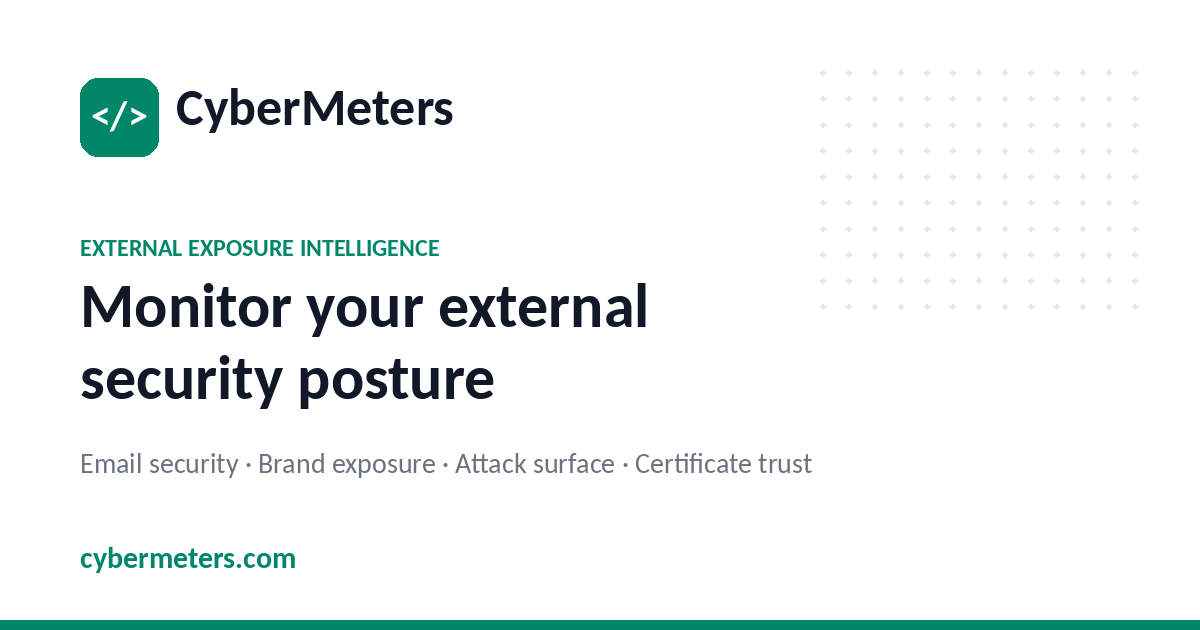
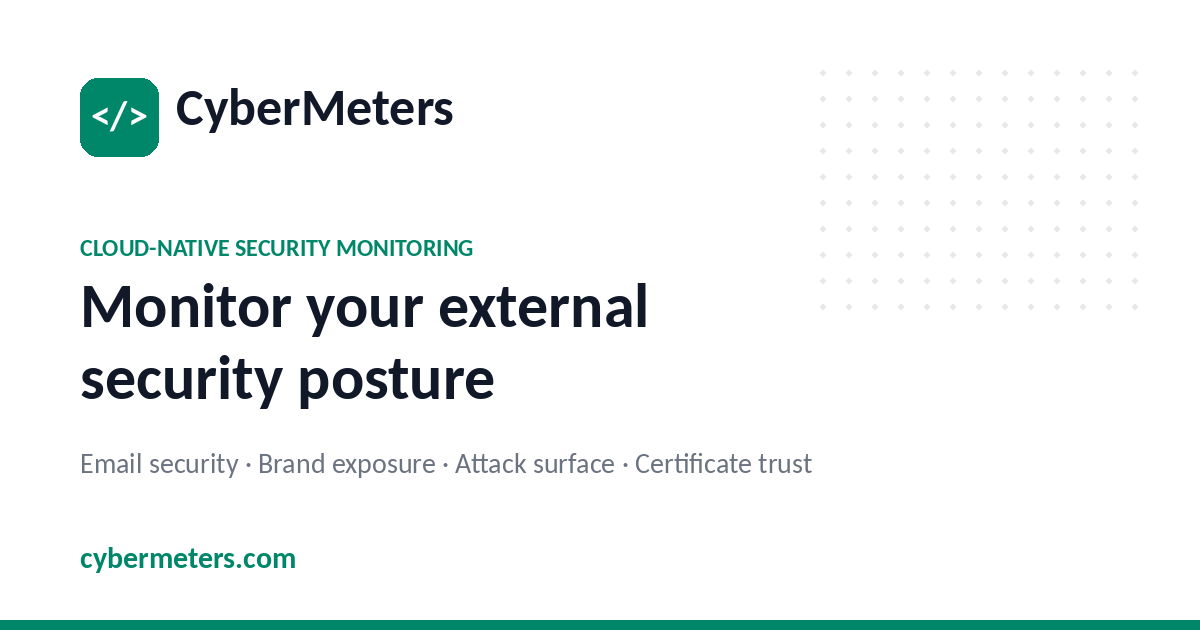
copy(marketing): lead with 'Monitor your external security posture'

Changed region(s): [[0.0617, 0.3619, 0.4008, 0.4222]]

diff --git a/frontend/index.html b/frontend/index.html
@@ -6,25 +6,25 @@
     <link rel="icon" href="/favicon.ico" sizes="any" />
     <link rel="apple-touch-icon" href="/favicon.svg" />
     <meta name="viewport" content="width=device-width, initial-scale=1.0" />
-    <title>CyberMeters — External Exposure Intelligence</title>
-    <meta name="description" content="CyberMeters is a cloud-native External Exposure Intelligence platform. Monitor email security (Managed DMARC & BEC exposure), brand exposure, attack surface risk, and certificate trust from one workspace." />
+    <title>CyberMeters — Monitor your external security posture</title>
+    <meta name="description" content="CyberMeters is a cloud-native security platform. Monitor your external security posture across email security (Managed DMARC & BEC exposure), brand exposure, attack surface risk, and certificate trust from one workspace." />
     <meta name="theme-color" content="#00876A" />
 
     <!-- Open Graph (LinkedIn, Slack, Facebook) -->
     <meta property="og:type" content="website" />
     <meta property="og:site_name" content="CyberMeters" />
-    <meta property="og:title" content="CyberMeters — External Exposure Intelligence" />
-    <meta property="og:description" content="A cloud-native platform to monitor email security, brand exposure, attack surface risk, and certificate trust from one workspace." />
+    <meta property="og:title" content="CyberMeters — Monitor your external security posture" />
+    <meta property="og:description" content="A cloud-native platform to monitor your external security posture across email security, brand exposure, attack surface risk, and certificate trust — from one workspace." />
     <meta property="og:url" content="https://cybermeters.com" />
     <meta property="og:image" content="https://cybermeters.com/og-image.png" />
     <meta property="og:image:width" content="1200" />
     <meta property="og:image:height" content="630" />
-    <meta property="og:image:alt" content="CyberMeters — External Exposure Intelligence" />
+    <meta property="og:image:alt" content="CyberMeters — Monitor your external security posture" />
 
     <!-- Twitter / X -->
     <meta name="twitter:card" content="summary_large_image" />
-    <meta name="twitter:title" content="CyberMeters — External Exposure Intelligence" />
-    <meta name="twitter:description" content="A cloud-native platform to monitor email security, brand exposure, attack surface risk, and certificate trust from one workspace." />
+    <meta name="twitter:title" content="CyberMeters — Monitor your external security posture" />
+    <meta name="twitter:description" content="A cloud-native platform to monitor your external security posture across email security, brand exposure, attack surface risk, and certificate trust — from one workspace." />
     <meta name="twitter:image" content="https://cybermeters.com/og-image.png" />
     <link rel="preconnect" href="https://fonts.googleapis.com" />
     <link rel="preconnect" href="https://fonts.gstatic.com" crossorigin />

diff --git a/frontend/src/pages/PublicLandingPage.jsx b/frontend/src/pages/PublicLandingPage.jsx
@@ -97,10 +97,10 @@ export default function PublicLandingPage() {
         <div className="grid grid-cols-1 lg:grid-cols-2 gap-12 items-center">
           <div>
             <span className="inline-flex items-center gap-2 px-3 py-1 rounded-full bg-brand-50 border border-brand-100 text-[11px] font-bold text-brand-700 uppercase tracking-[0.14em] mb-5">
-              <span className="w-1.5 h-1.5 rounded-full bg-brand-500" /> External Exposure Intelligence
+              <span className="w-1.5 h-1.5 rounded-full bg-brand-500" /> Cloud-native security monitoring
             </span>
             <h1 className="text-[34px] sm:text-[44px] font-bold tracking-tight leading-[1.1]">
-              External Exposure Intelligence for modern businesses
+              Monitor your external security posture
             </h1>
             <p className="text-base sm:text-lg text-gray-600 mt-5 leading-relaxed max-w-xl">
               CyberMeters helps organisations monitor email security, brand exposure, attack surface risk, and certificate
@@ -212,7 +212,7 @@ export default function PublicLandingPage() {
         <div className="max-w-6xl mx-auto px-5 py-10 flex flex-col sm:flex-row sm:items-center sm:justify-between gap-6">
           <div>
             <CyberMetersLogo className="h-6 mb-3" />
-            <p className="text-sm text-gray-500">External Exposure Intelligence for modern businesses.</p>
+            <p className="text-sm text-gray-500">Monitor your external security posture from one cloud-native platform.</p>
             <p className="text-sm text-gray-500 mt-1">
               <a href={CONTACT} className="hover:text-gray-800">hello@cybermeters.com</a>
               {' · '}
